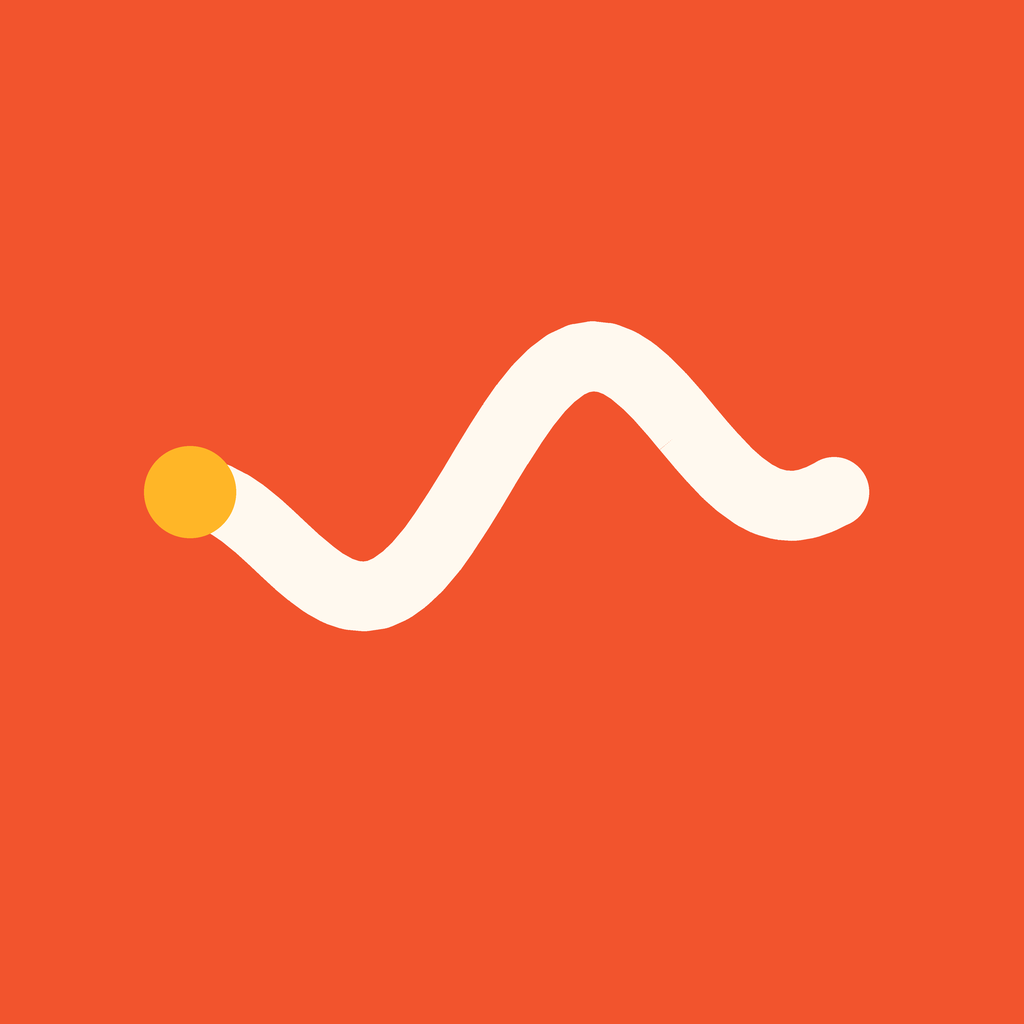
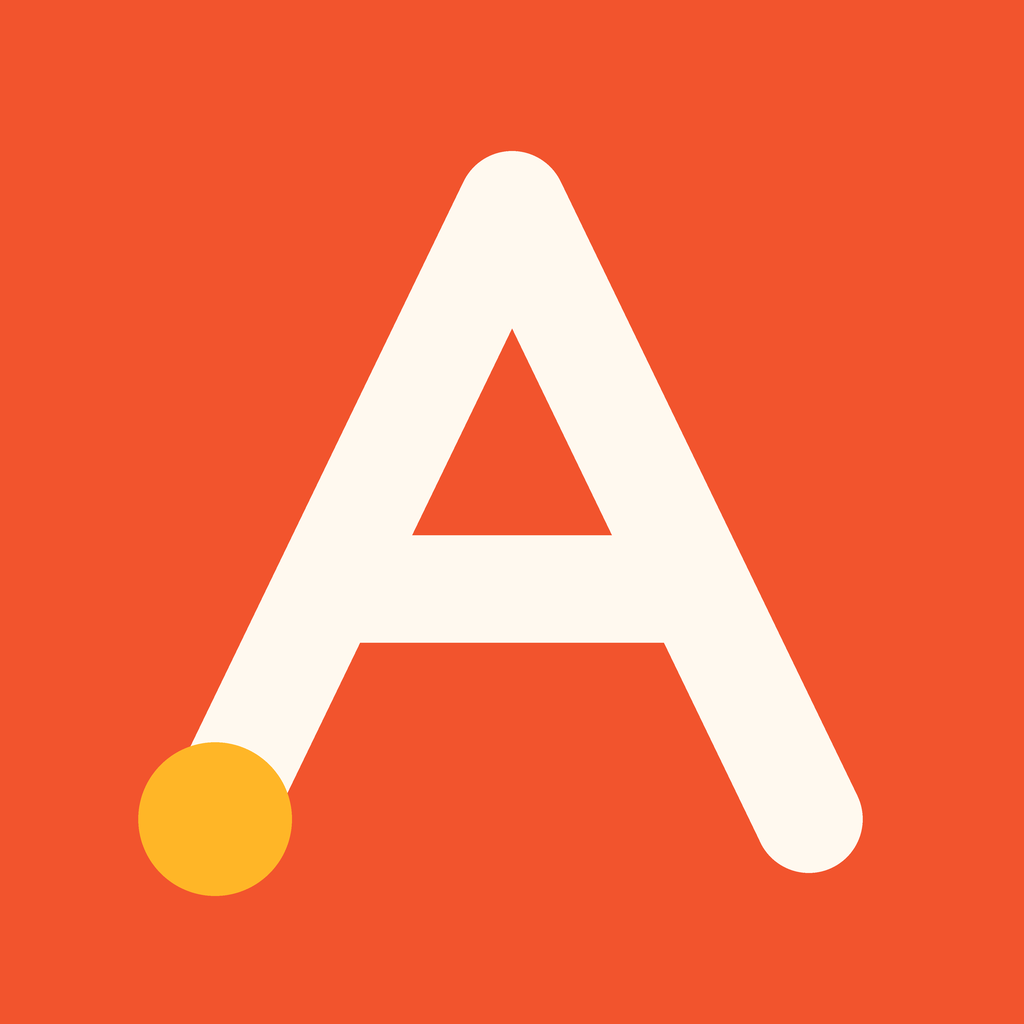
Describe the app it grew into, not the one it started as
The site still introduced AlphaPath as "a gentle line-tracing app" with
"the grown-up screens in English and Hindi" — the Phase-0 product, and
the name it outgrew. It now runs Nursery to Class 10, splits into
subjects at Class 1, follows CBSE or Cambridge, and ends chapters in
worksheets and tests, so the home card, the tagline, "What it is",
"How it works" and the feature list say that instead.

Four things were overstated or missing rather than merely dated. Hindi
is 29 translated strings — the welcome and the main settings — not the
grown-up screens, so it now says part-way in. Progress following an
account to a new device, offline practice being kept and sent up later,
and the opt-in leaderboard with its age-8 floor are all real and were
all absent. The FAQ gains what it teaches and which board, and loses
"roughly three to ten".

The privacy policy's audience line said young children. That is still
who the youngest user is, but no longer who the app is for, and the
children's-privacy obligations attach to the under-13 part either way —
so it names both rather than the narrower one.

The home card also still carried the old cream-wave mark. It now
carries the A that ships in the app, from app/tool/gen_icon.py.

Changed region(s): [[0.125, 0.125, 0.875, 0.875]]

diff --git a/alphapath/index.html b/alphapath/index.html
@@ -32,18 +32,20 @@
   <main class="wrap">
     <div class="page-head">
       <h1>AlphaPath</h1>
-      <p>A gentle learning app for young children &middot; in development</p>
+      <p>Nursery to Class 10, spoken aloud and offline &middot; in development</p>
     </div>
 
     <div class="content-card">
       <h2>What it is</h2>
-      <p>AlphaPath teaches young children to write, read and count &mdash; starting with single strokes and building up one small step at a time. Every instruction is spoken aloud, so a child who cannot read yet can still use it on their own from the first minute.</p>
+      <p>AlphaPath starts where a child does &mdash; a single pencil stroke &mdash; and keeps going to Class 10. The first chapters teach writing, reading and counting. From Class 1 the work is organised by subject, with practice questions and a short test after each chapter. Every instruction is spoken aloud, so a child who cannot read yet can still use it on their own from the first minute, and none of it needs an internet connection.</p>
 
       <h2>How it works</h2>
       <ul>
         <li><strong>Tracing.</strong> A guide dot leads the child along each stroke. Finishing always earns something; there is no failure state anywhere in the app.</li>
         <li><strong>A map, not a menu.</strong> Lessons sit along a path the child walks. Earlier chapters stay reachable forever &mdash; nothing is ever locked away once passed.</li>
         <li><strong>A starting point that fits.</strong> A short, game-like check finds the right chapter to begin at, instead of guessing from a birthday.</li>
+        <li><strong>Subjects, once there are subjects.</strong> From Class 1 the path runs through English, Maths and EVS; from Class 6, English, Maths, Science and Social Science. A grown-up chooses CBSE or Cambridge, and the subjects regroup to match the one they picked.</li>
+        <li><strong>Practice and tests.</strong> Chapters end in questions &mdash; tap-to-answer and a number pad, each marked as it is answered &mdash; then a short test. Class 10 has full mock papers.</li>
         <li><strong>Grown-up settings behind a gate.</strong> Reports, daily goals, screen-time limits and language sit behind a simple multiplication question a young child cannot answer.</li>
       </ul>
 
@@ -53,9 +55,13 @@
         <li><strong>Awards cabinet</strong> &mdash; things the child has earned, which can never be taken away again.</li>
         <li><strong>Screen-time limits</strong> &mdash; set by a grown-up, with a gentle &ldquo;all done for today&rdquo; rather than a lock-out. A lesson already started always finishes.</li>
         <li><strong>Practice reminders</strong> &mdash; a daily note to the parent, never to the child, and only on days they have not already practised.</li>
-        <li><strong>Works offline</strong> &mdash; the whole curriculum and every spoken line ship inside the app.</li>
-        <li><strong>English and Hindi</strong> for the grown-up screens.</li>
+        <li><strong>Works offline</strong> &mdash; the whole curriculum and every spoken line ship inside the app. Practice done with no signal is kept and sent up later.</li>
+        <li><strong>A report for grown-ups</strong> &mdash; what is solid, what wants another go, and how much has been practised lately.</li>
+        <li><strong>Progress follows the account</strong> &mdash; sign in on a new phone and the work is already there.</li>
+        <li><strong>Leaderboards only if you ask for them</strong> &mdash; off until a grown-up turns them on, never offered below age 8, and a child is never shown by name.</li>
         <li><strong>Multiple children</strong> on one account, each with their own progress.</li>
+        <li><strong>Free, with no ads and nothing to buy</strong> inside the app.</li>
+        <li><strong>English</strong> throughout, with Hindi part-way in on the grown-up screens and more of it on the way.</li>
       </ul>
 
       <h2>Status</h2>

diff --git a/alphapath/faq.html b/alphapath/faq.html
@@ -37,7 +37,11 @@
 
     <div class="content-card">
       <h2>Getting started</h2>
-      <p><strong>What age is it for?</strong><br />Roughly three to ten. The early chapters are single strokes and shapes for a child who has never held a pencil; the later ones reach primary-school reading, writing and arithmetic. A child does not need to be able to read to start &mdash; every instruction is spoken.</p>
+      <p><strong>What age is it for?</strong><br />Roughly three to fifteen &mdash; Nursery through to Class 10. The early chapters are single strokes and shapes for a child who has never held a pencil; later ones cover school subjects up to the Class 10 syllabus. A child does not need to be able to read to start &mdash; every instruction is spoken.</p>
+
+      <p><strong>What does it teach?</strong><br />For the youngest children, letters, numbers, shapes and colours. From Class 1 it follows school subjects &mdash; English, Maths and EVS, with Science and Social Science from Class 6 &mdash; each chapter ending in practice questions and a short test. Class 10 has full mock papers.</p>
+
+      <p><strong>Which board does it follow?</strong><br />CBSE by default, with Cambridge as an alternative you can pick in the grown-up settings. The choice changes how subjects are grouped and named; the work underneath is the same.</p>
 
       <p><strong>Do I need an account?</strong><br />No. You can tap &ldquo;Play as guest&rdquo; and use everything. The difference is that guest progress stays on that device and is not saved anywhere else &mdash; so it is lost if the app is uninstalled, and it does not follow your child to another tablet.</p>
 
@@ -64,7 +68,7 @@
 
       <p><strong>Does it work without internet?</strong><br />Yes. The whole curriculum and every spoken line are inside the app. Signed-in progress syncs when a connection is next available; nothing is lost while offline.</p>
 
-      <p><strong>Can I change the language?</strong><br />The grown-up screens are available in English and Hindi. Your child's lessons are spoken in English for now.</p>
+      <p><strong>Can I change the language?</strong><br />English, Hindi, or follow the device &mdash; set in the grown-up settings. Hindi is part-way in: the welcome and the main settings are translated and the rest is being worked through. Your child's lessons are spoken in English for now.</p>
 
       <h2>Progress and reports</h2>
       <p><strong>Where do I see how my child is doing?</strong><br />In the grown-up settings: lessons finished, stars, activities, days practised, time spent, and a chapter-by-chapter view of where they are.</p>

diff --git a/alphapath/privacy.html b/alphapath/privacy.html
@@ -37,7 +37,7 @@
 
     <div class="content-card">
       <h2>The short version</h2>
-      <p>AlphaPath is built for young children, so the honest summary matters more than the legal one:</p>
+      <p>AlphaPath is built for children, the youngest of them barely three, so the honest summary matters more than the legal one:</p>
       <ul>
         <li>You can use the app <strong>without an account at all</strong>. Nothing then leaves the device &mdash; not progress, not a name, nothing.</li>
         <li>If you make an account, we store what is needed to carry your child's progress between devices. Nothing more.</li>
@@ -94,7 +94,7 @@
       <p>You can <strong>close</strong> the account yourself in the app, which stops it working immediately and blocks all further access to its data &mdash; but keeps the record, deactivated, for thirty days so a mis-tap is recoverable &mdash; after which it is erased automatically. You can also ask us to <strong>erase</strong> it, which removes the account, its child profiles and all progress permanently. Both are yours to choose, and both are set out on <a href="delete-account.html">Closing or erasing your account</a>.</p>
 
       <h2>Children's privacy</h2>
-      <p>This app is intended for young children and is used with a parent or guardian's involvement. Because that raises specific obligations, it has its own page: <a href="children.html">Children's Privacy</a>. Please read it alongside this one.</p>
+      <p>This app is intended for children, including very young ones, and is used with a parent or guardian's involvement. Because that raises specific obligations, it has its own page: <a href="children.html">Children's Privacy</a>. Please read it alongside this one.</p>
 
       <h2>Your rights</h2>
       <p>You can ask us for a copy of what is held about your account, ask us to correct it, or ask us to delete it. Closing is available directly in the app, and erasure on request &mdash; see <a href="delete-account.html">Closing or erasing your account</a>. For anything else, write to <a href="mailto:alpha.silent.official@gmail.com">alpha.silent.official@gmail.com</a> and we will respond within 30 days.</p>

diff --git a/index.html b/index.html
@@ -39,11 +39,11 @@
           <div class="card-top">
             <img class="icon" src="assets/app-icon-a.png" alt="App icon" />
             <div>
-              <p class="kicker">For kids</p>
+              <p class="kicker">For school</p>
               <h2>AlphaPath</h2>
             </div>
           </div>
-          <p class="desc">A gentle line-tracing app that teaches young children to write — one stroke at a time, spoken aloud, no reading required to start.</p>
+          <p class="desc">Learning from the first pencil stroke to Class 10 — tracing, worksheets and tests across English, Maths, EVS, Science and Social Science. Spoken aloud throughout, and it works with no internet.</p>
           <span class="soon">🚧 In the works</span>
         </article>
 
